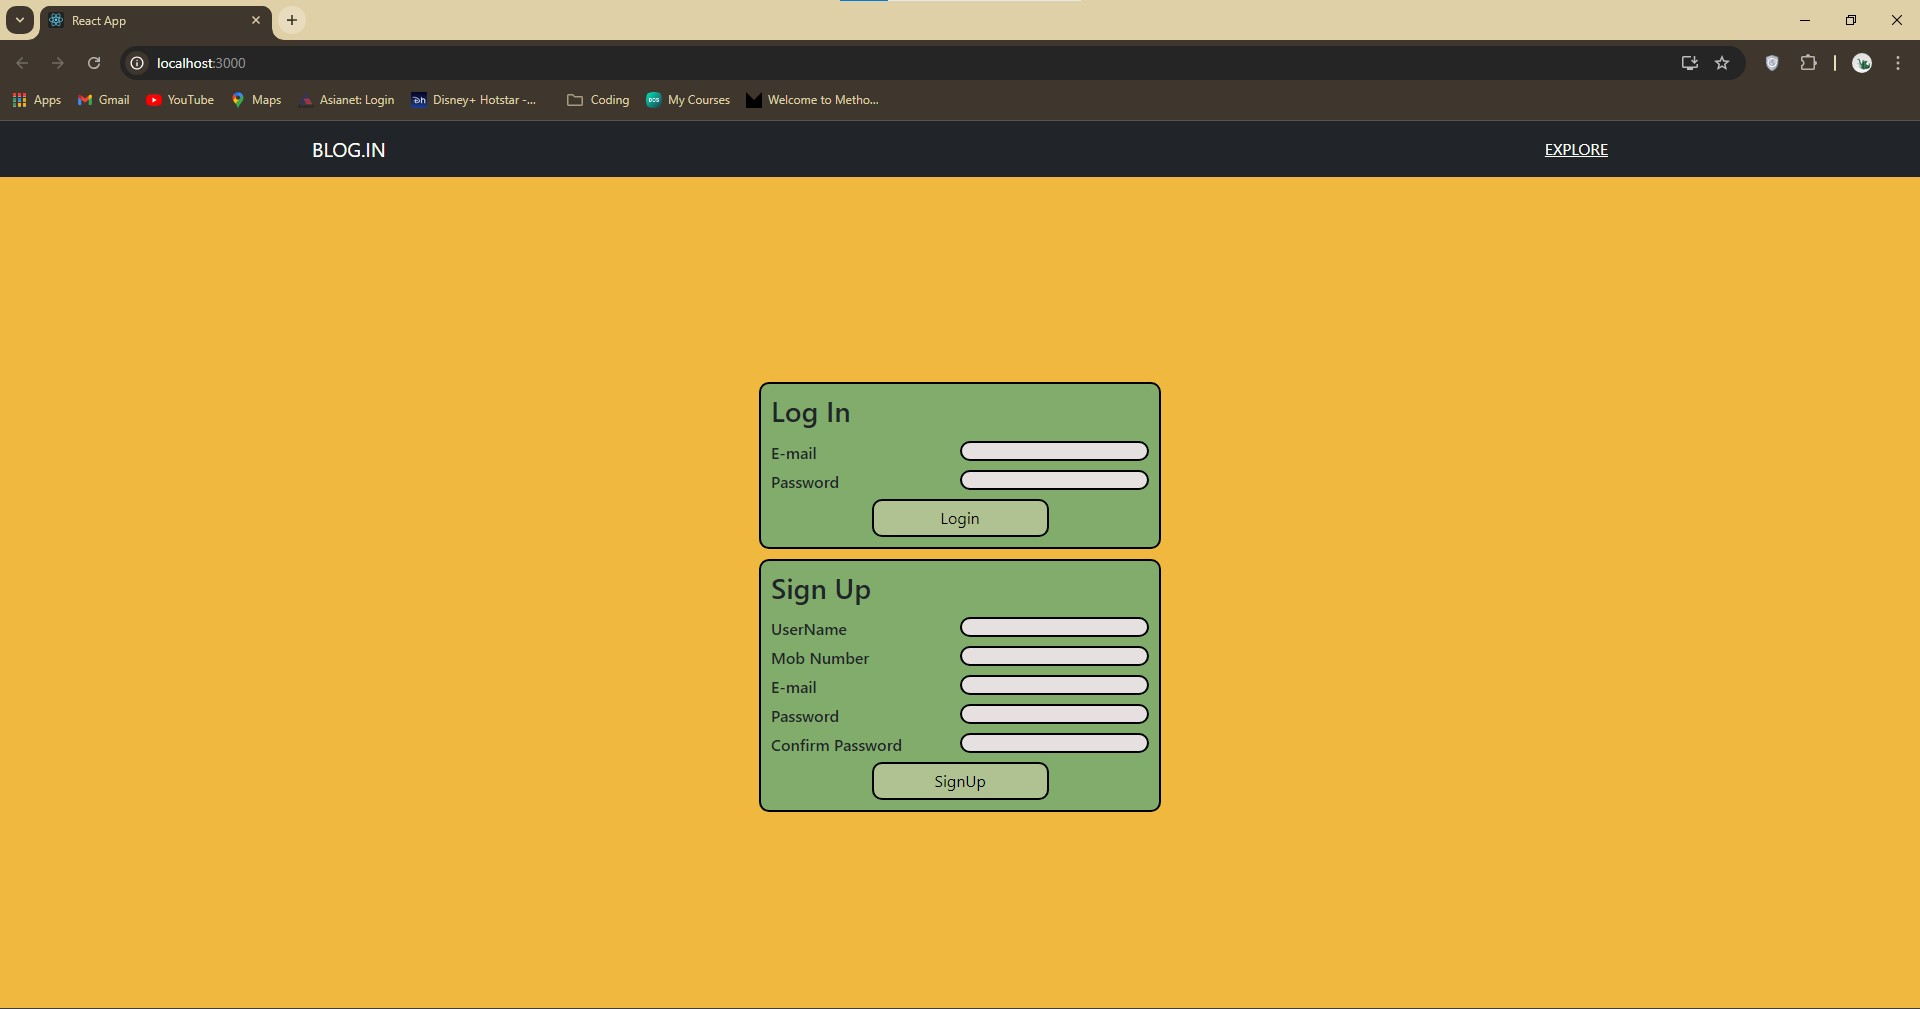
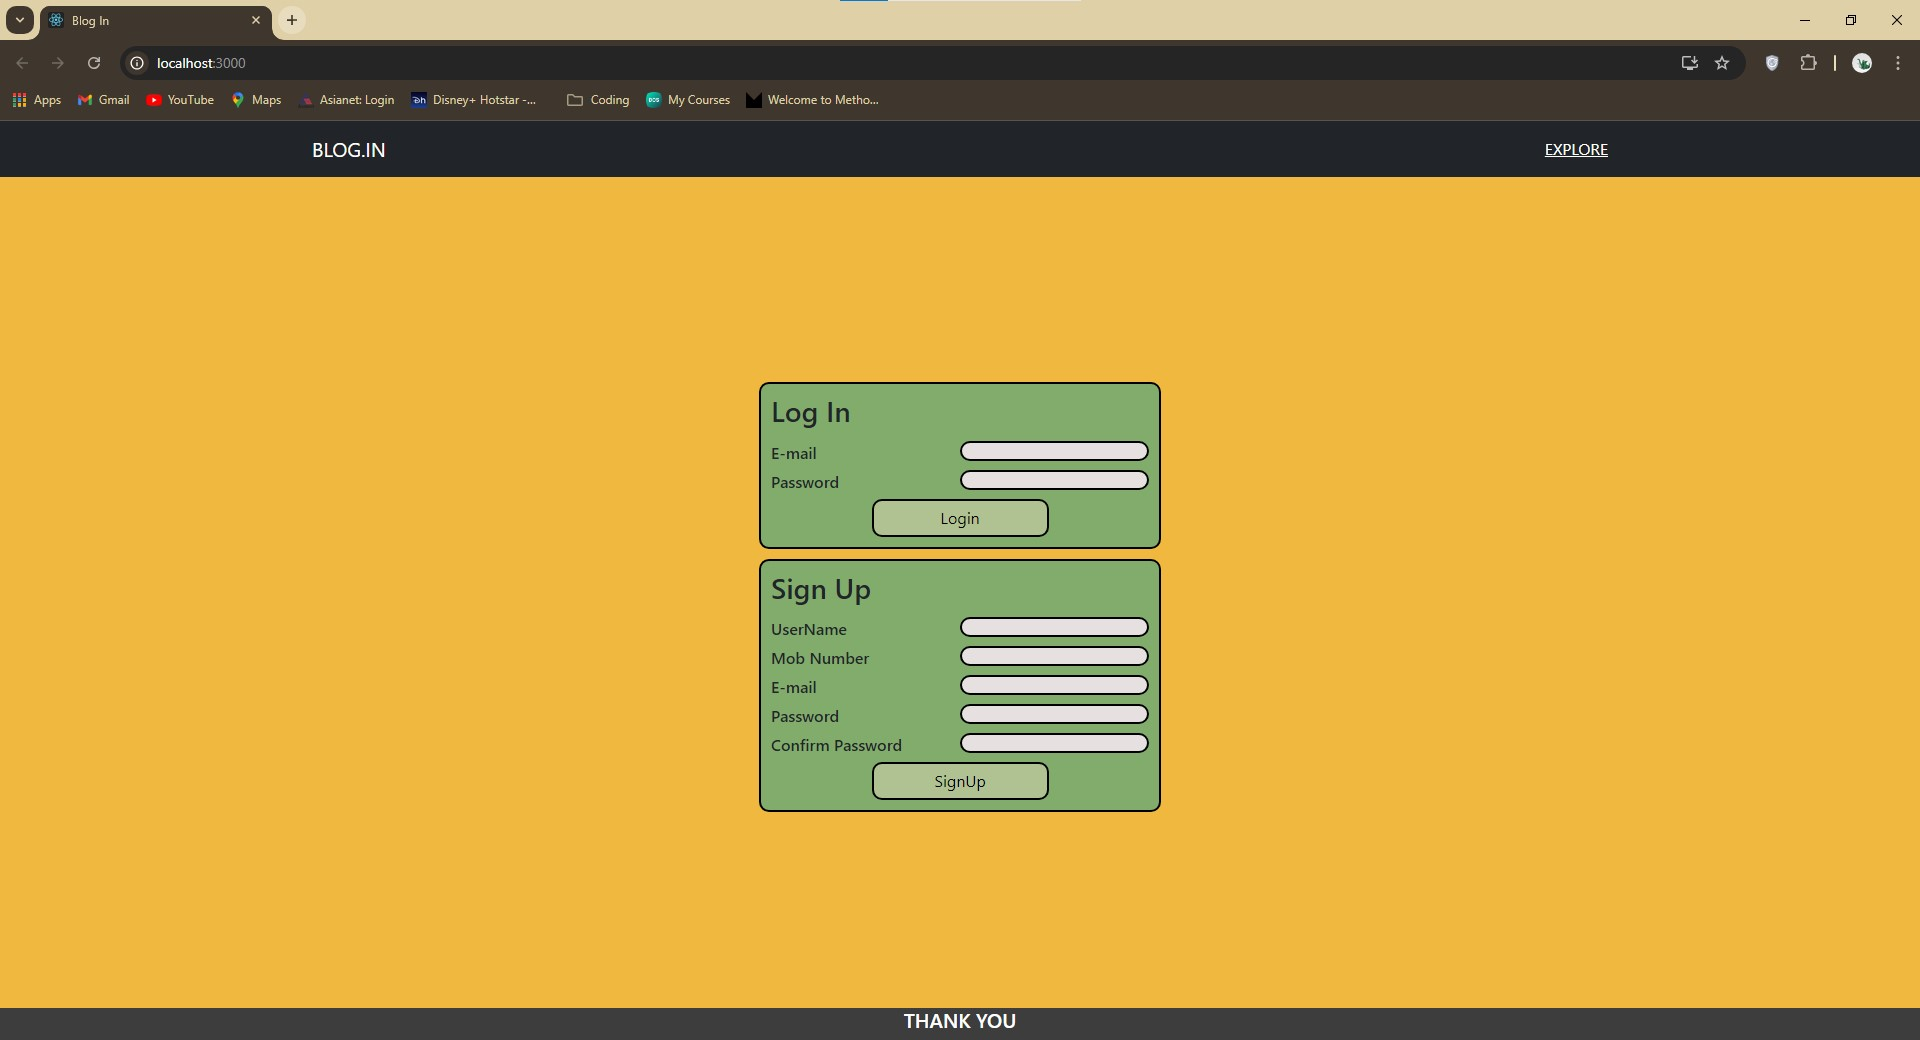
screenshot added

diff --git a/public/index.html b/public/index.html
@@ -24,7 +24,7 @@
       work correctly both with client-side routing and a non-root public URL.
       Learn how to configure a non-root public URL by running `npm run build`.
     -->
-    <title>React App</title>
+    <title>Blog In</title>
   </head>
   <body>
     <noscript>You need to enable JavaScript to run this app.</noscript>

diff --git a/src/App.css b/src/App.css
@@ -2,7 +2,7 @@
     margin: 0;
     padding: 0;
     width: 100%;
-    height: 90.4vh;
+    height: 100vh;
     display: flex;
     overflow: hidden;
     justify-content: center;
